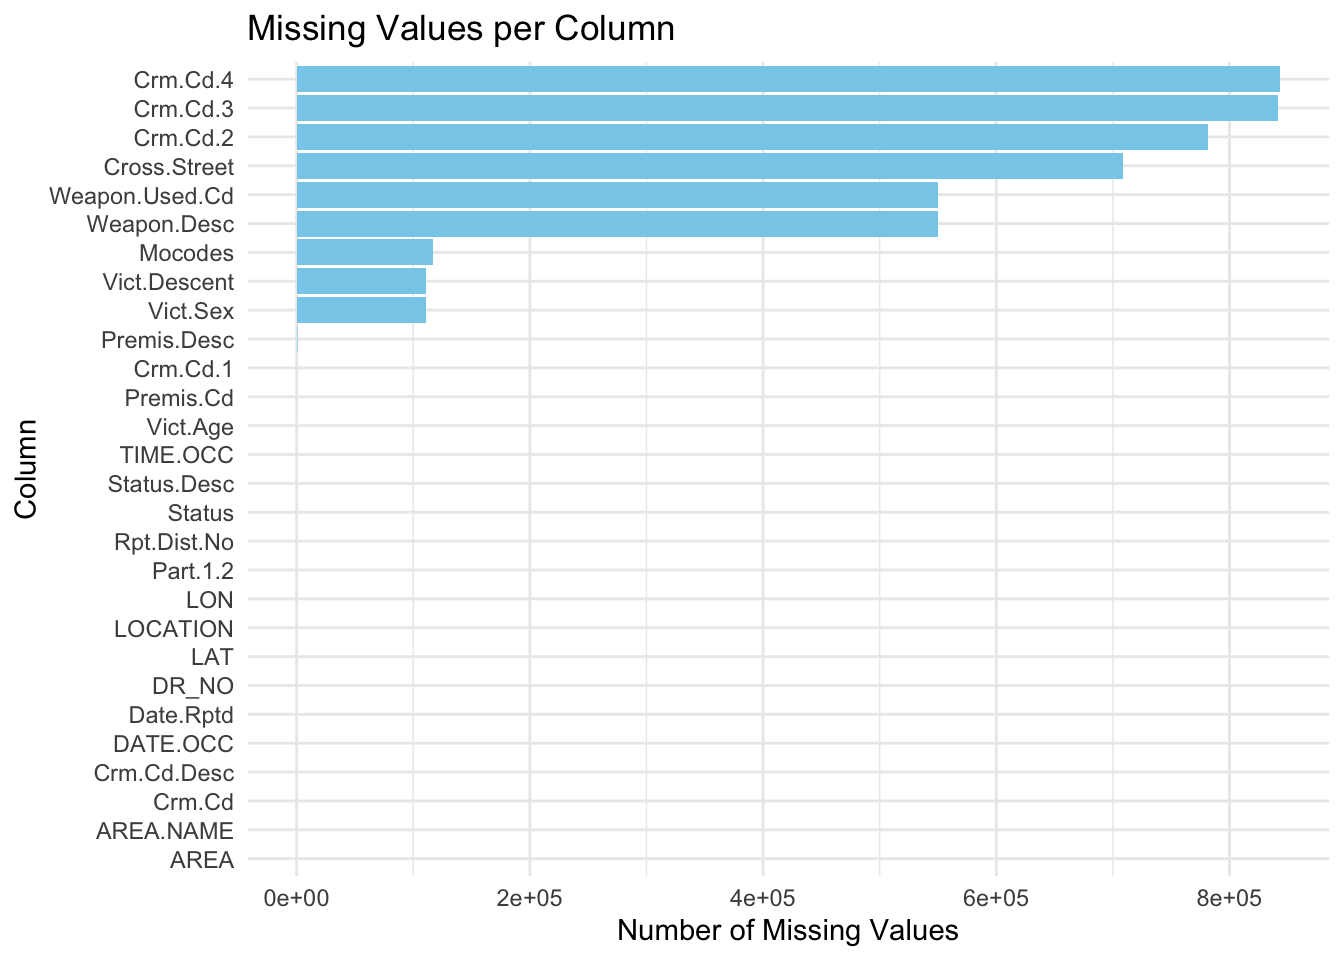
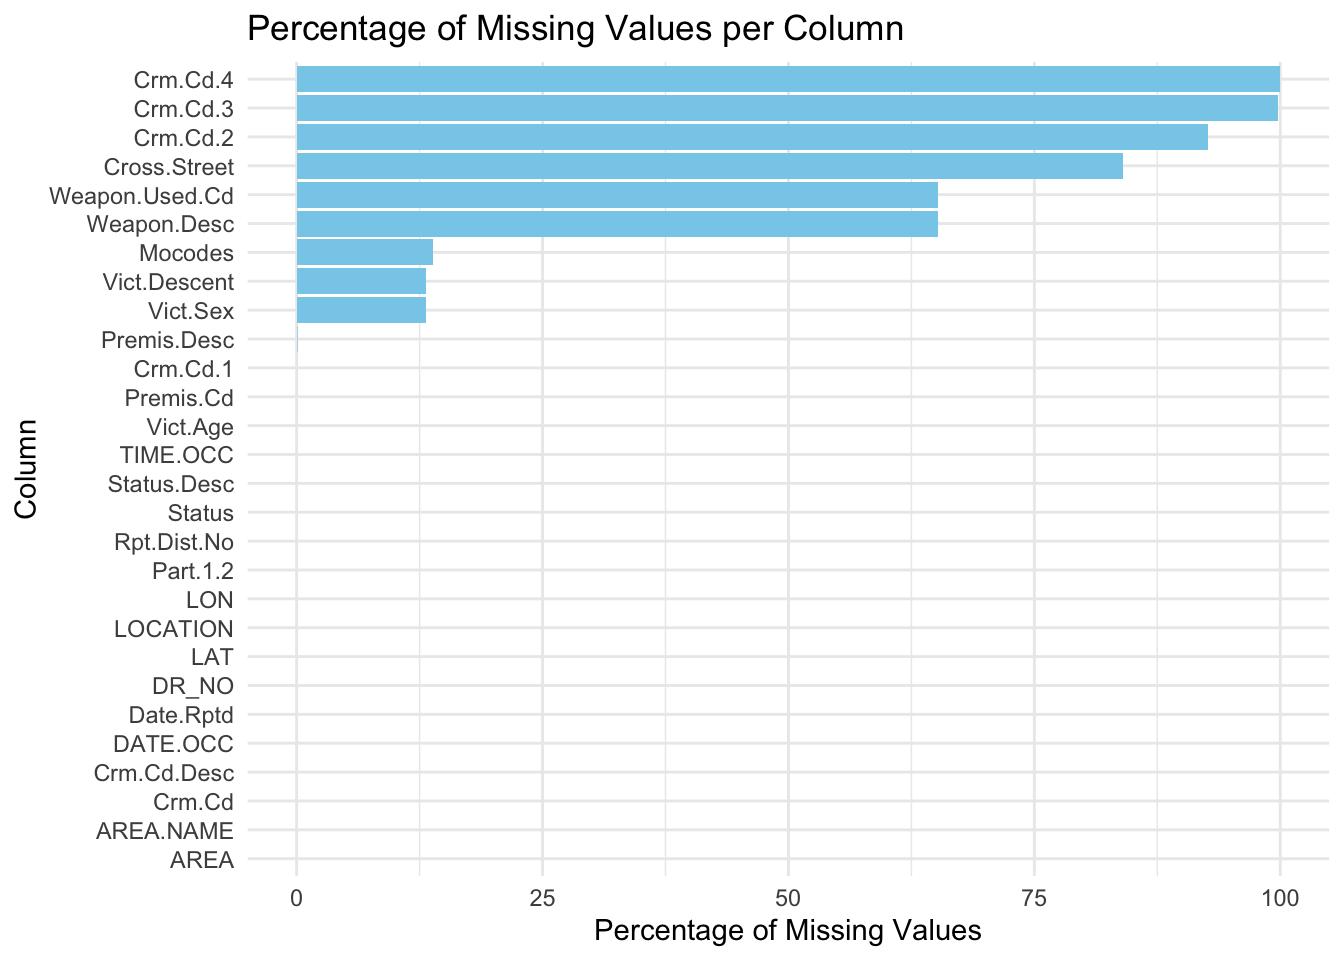
updated html

diff --git a/docs/data.html b/docs/data.html
@@ -239,30 +239,63 @@ pre > code.sourceCode > span > a:first-child::before { text-decoration: underlin
 </div>
 <details>
 <summary>Code</summary>
-<div class="sourceCode cell-code" id="cb4"><pre class="sourceCode r code-with-copy"><code class="sourceCode r"><span id="cb4-1"><a href="#cb4-1" aria-hidden="true" tabindex="-1"></a>df[df<span class="sc">==</span><span class="st">""</span>]<span class="ot">&lt;-</span><span class="cn">NA</span></span>
-<span id="cb4-2"><a href="#cb4-2" aria-hidden="true" tabindex="-1"></a>missing_values <span class="ot">&lt;-</span> <span class="fu">colSums</span>(<span class="fu">is.na</span>(df))</span>
-<span id="cb4-3"><a href="#cb4-3" aria-hidden="true" tabindex="-1"></a></span>
-<span id="cb4-4"><a href="#cb4-4" aria-hidden="true" tabindex="-1"></a><span class="co"># Create a dataframe for ggplot and sort in increasing order</span></span>
-<span id="cb4-5"><a href="#cb4-5" aria-hidden="true" tabindex="-1"></a>missing_df <span class="ot">&lt;-</span> <span class="fu">data.frame</span>(</span>
-<span id="cb4-6"><a href="#cb4-6" aria-hidden="true" tabindex="-1"></a>  <span class="at">column =</span> <span class="fu">names</span>(missing_values),</span>
-<span id="cb4-7"><a href="#cb4-7" aria-hidden="true" tabindex="-1"></a>  <span class="at">count =</span> missing_values</span>
-<span id="cb4-8"><a href="#cb4-8" aria-hidden="true" tabindex="-1"></a>)</span>
-<span id="cb4-9"><a href="#cb4-9" aria-hidden="true" tabindex="-1"></a></span>
-<span id="cb4-10"><a href="#cb4-10" aria-hidden="true" tabindex="-1"></a>missing_df <span class="ot">&lt;-</span> missing_df[<span class="fu">order</span>(missing_df<span class="sc">$</span>count), ]</span>
-<span id="cb4-11"><a href="#cb4-11" aria-hidden="true" tabindex="-1"></a></span>
-<span id="cb4-12"><a href="#cb4-12" aria-hidden="true" tabindex="-1"></a><span class="co"># Create ggplot horizontal bar plot for missing values</span></span>
-<span id="cb4-13"><a href="#cb4-13" aria-hidden="true" tabindex="-1"></a><span class="fu">ggplot</span>(missing_df, <span class="fu">aes</span>(<span class="at">x =</span> <span class="fu">reorder</span>(column, count), <span class="at">y =</span> count)) <span class="sc">+</span></span>
+<div class="sourceCode cell-code" id="cb4"><pre class="sourceCode r code-with-copy"><code class="sourceCode r"><span id="cb4-1"><a href="#cb4-1" aria-hidden="true" tabindex="-1"></a><span class="co">#Adding NA to blank values</span></span>
+<span id="cb4-2"><a href="#cb4-2" aria-hidden="true" tabindex="-1"></a>df[df<span class="sc">==</span><span class="st">""</span>]<span class="ot">&lt;-</span><span class="cn">NA</span></span>
+<span id="cb4-3"><a href="#cb4-3" aria-hidden="true" tabindex="-1"></a>missing_percentage <span class="ot">&lt;-</span> (<span class="fu">colSums</span>(<span class="fu">is.na</span>(df)) <span class="sc">/</span> <span class="fu">nrow</span>(df)) <span class="sc">*</span> <span class="dv">100</span></span>
+<span id="cb4-4"><a href="#cb4-4" aria-hidden="true" tabindex="-1"></a></span>
+<span id="cb4-5"><a href="#cb4-5" aria-hidden="true" tabindex="-1"></a></span>
+<span id="cb4-6"><a href="#cb4-6" aria-hidden="true" tabindex="-1"></a>missing_df <span class="ot">&lt;-</span> <span class="fu">data.frame</span>(</span>
+<span id="cb4-7"><a href="#cb4-7" aria-hidden="true" tabindex="-1"></a>  <span class="at">column =</span> <span class="fu">names</span>(missing_percentage),</span>
+<span id="cb4-8"><a href="#cb4-8" aria-hidden="true" tabindex="-1"></a>  <span class="at">percentage =</span> missing_percentage</span>
+<span id="cb4-9"><a href="#cb4-9" aria-hidden="true" tabindex="-1"></a>)</span>
+<span id="cb4-10"><a href="#cb4-10" aria-hidden="true" tabindex="-1"></a></span>
+<span id="cb4-11"><a href="#cb4-11" aria-hidden="true" tabindex="-1"></a>missing_df <span class="ot">&lt;-</span> missing_df[<span class="fu">order</span>(missing_df<span class="sc">$</span>percentage), ]</span>
+<span id="cb4-12"><a href="#cb4-12" aria-hidden="true" tabindex="-1"></a></span>
+<span id="cb4-13"><a href="#cb4-13" aria-hidden="true" tabindex="-1"></a><span class="fu">ggplot</span>(missing_df, <span class="fu">aes</span>(<span class="at">x =</span> <span class="fu">reorder</span>(column, percentage), <span class="at">y =</span> percentage)) <span class="sc">+</span></span>
 <span id="cb4-14"><a href="#cb4-14" aria-hidden="true" tabindex="-1"></a>  <span class="fu">geom_bar</span>(<span class="at">stat =</span> <span class="st">"identity"</span>, <span class="at">fill =</span> <span class="st">"skyblue"</span>) <span class="sc">+</span></span>
 <span id="cb4-15"><a href="#cb4-15" aria-hidden="true" tabindex="-1"></a>  <span class="fu">labs</span>(</span>
-<span id="cb4-16"><a href="#cb4-16" aria-hidden="true" tabindex="-1"></a>    <span class="at">title =</span> <span class="st">"Missing Values per Column"</span>,</span>
+<span id="cb4-16"><a href="#cb4-16" aria-hidden="true" tabindex="-1"></a>    <span class="at">title =</span> <span class="st">"Percentage of Missing Values per Column"</span>,</span>
 <span id="cb4-17"><a href="#cb4-17" aria-hidden="true" tabindex="-1"></a>    <span class="at">x =</span> <span class="st">"Column"</span>,</span>
-<span id="cb4-18"><a href="#cb4-18" aria-hidden="true" tabindex="-1"></a>    <span class="at">y =</span> <span class="st">"Number of Missing Values"</span></span>
+<span id="cb4-18"><a href="#cb4-18" aria-hidden="true" tabindex="-1"></a>    <span class="at">y =</span> <span class="st">"Percentage of Missing Values"</span></span>
 <span id="cb4-19"><a href="#cb4-19" aria-hidden="true" tabindex="-1"></a>  ) <span class="sc">+</span></span>
 <span id="cb4-20"><a href="#cb4-20" aria-hidden="true" tabindex="-1"></a>  <span class="fu">theme_minimal</span>() <span class="sc">+</span></span>
 <span id="cb4-21"><a href="#cb4-21" aria-hidden="true" tabindex="-1"></a>  <span class="fu">coord_flip</span>()</span></code><button title="Copy to Clipboard" class="code-copy-button"><i class="bi"></i></button></pre></div>
 </details>
 <div class="cell-output-display">
 <p><img src="data_files/figure-html/unnamed-chunk-2-1.png" class="img-fluid" width="672"></p>
+</div>
+</div>
+<div class="cell">
+<details>
+<summary>Code</summary>
+<div class="sourceCode cell-code" id="cb5"><pre class="sourceCode r code-with-copy"><code class="sourceCode r"><span id="cb5-1"><a href="#cb5-1" aria-hidden="true" tabindex="-1"></a>subset_size <span class="ot">&lt;-</span> <span class="dv">50</span></span>
+<span id="cb5-2"><a href="#cb5-2" aria-hidden="true" tabindex="-1"></a><span class="co"># Identify rows with missing values in specific columns</span></span>
+<span id="cb5-3"><a href="#cb5-3" aria-hidden="true" tabindex="-1"></a>rows_with_missing <span class="ot">&lt;-</span> <span class="fu">which</span>(<span class="fu">apply</span>(df, <span class="dv">1</span>, <span class="cf">function</span>(x) <span class="fu">any</span>(<span class="fu">is.na</span>(x))))</span>
+<span id="cb5-4"><a href="#cb5-4" aria-hidden="true" tabindex="-1"></a></span>
+<span id="cb5-5"><a href="#cb5-5" aria-hidden="true" tabindex="-1"></a><span class="co"># Identify columns with missing values in the selected rows</span></span>
+<span id="cb5-6"><a href="#cb5-6" aria-hidden="true" tabindex="-1"></a>columns_with_missing <span class="ot">&lt;-</span> <span class="fu">names</span>(<span class="fu">which</span>(<span class="fu">colSums</span>(<span class="fu">is.na</span>(df[rows_with_missing, ])) <span class="sc">&gt;</span> <span class="dv">50</span> <span class="sc">&amp;</span> <span class="fu">colSums</span>(<span class="fu">is.na</span>(df[rows_with_missing, ])) <span class="sc">&lt;</span> <span class="dv">700000</span>))</span>
+<span id="cb5-7"><a href="#cb5-7" aria-hidden="true" tabindex="-1"></a></span>
+<span id="cb5-8"><a href="#cb5-8" aria-hidden="true" tabindex="-1"></a><span class="co"># Randomly subset rows with missing values in specific columns</span></span>
+<span id="cb5-9"><a href="#cb5-9" aria-hidden="true" tabindex="-1"></a>random_subset <span class="ot">&lt;-</span> df[<span class="fu">sample</span>(rows_with_missing, subset_size), columns_with_missing, drop <span class="ot">=</span> <span class="cn">FALSE</span>]</span></code><button title="Copy to Clipboard" class="code-copy-button"><i class="bi"></i></button></pre></div>
+</details>
+</div>
+<div class="cell">
+<details>
+<summary>Code</summary>
+<div class="sourceCode cell-code" id="cb6"><pre class="sourceCode r code-with-copy"><code class="sourceCode r"><span id="cb6-1"><a href="#cb6-1" aria-hidden="true" tabindex="-1"></a>tidydf <span class="ot">&lt;-</span> random_subset <span class="sc">%&gt;%</span> </span>
+<span id="cb6-2"><a href="#cb6-2" aria-hidden="true" tabindex="-1"></a>    <span class="fu">rownames_to_column</span>(<span class="st">"id"</span>) <span class="sc">%&gt;%</span> </span>
+<span id="cb6-3"><a href="#cb6-3" aria-hidden="true" tabindex="-1"></a>    <span class="fu">gather</span>(key, value, <span class="sc">-</span>id) <span class="sc">%&gt;%</span> </span>
+<span id="cb6-4"><a href="#cb6-4" aria-hidden="true" tabindex="-1"></a>    <span class="fu">mutate</span>(<span class="at">missing =</span> <span class="fu">ifelse</span>(<span class="fu">is.na</span>(value), <span class="st">"yes"</span>, <span class="st">"no"</span>))</span>
+<span id="cb6-5"><a href="#cb6-5" aria-hidden="true" tabindex="-1"></a></span>
+<span id="cb6-6"><a href="#cb6-6" aria-hidden="true" tabindex="-1"></a><span class="fu">ggplot</span>(tidydf, <span class="fu">aes</span>(<span class="at">x =</span> key, <span class="at">y =</span> <span class="fu">fct_rev</span>(id), <span class="at">fill =</span> missing)) <span class="sc">+</span></span>
+<span id="cb6-7"><a href="#cb6-7" aria-hidden="true" tabindex="-1"></a>  <span class="fu">geom_tile</span>(<span class="at">color =</span> <span class="st">"white"</span>) <span class="sc">+</span> </span>
+<span id="cb6-8"><a href="#cb6-8" aria-hidden="true" tabindex="-1"></a>  <span class="fu">ggtitle</span>(<span class="st">"Missing Values of a Random Subset"</span>) <span class="sc">+</span></span>
+<span id="cb6-9"><a href="#cb6-9" aria-hidden="true" tabindex="-1"></a>  <span class="fu">ylab</span>(<span class="st">'Crime ID'</span>) <span class="sc">+</span> </span>
+<span id="cb6-10"><a href="#cb6-10" aria-hidden="true" tabindex="-1"></a>  <span class="fu">scale_fill_viridis_d</span>() <span class="sc">+</span></span>
+<span id="cb6-11"><a href="#cb6-11" aria-hidden="true" tabindex="-1"></a>  <span class="fu">theme_bw</span>()</span></code><button title="Copy to Clipboard" class="code-copy-button"><i class="bi"></i></button></pre></div>
+</details>
+<div class="cell-output-display">
+<p><img src="data_files/figure-html/unnamed-chunk-4-1.png" class="img-fluid" width="672"></p>
 </div>
 </div>
 

diff --git a/docs/index.html b/docs/index.html
@@ -8,7 +8,7 @@
 
 <meta name="author" content="Aneri Modi (abm2211)">
 <meta name="author" content="Zainab Shakruwala (zs2641)">
-<meta name="dcterms.date" content="2023-11-28">
+<meta name="dcterms.date" content="2023-11-30">
 
 <title>Crime in LA</title>
 <style>
@@ -170,7 +170,7 @@ ul.task-list li input[type="checkbox"] {
     <div>
     <div class="quarto-title-meta-heading">Published</div>
     <div class="quarto-title-meta-contents">
-      <p class="date">November 28, 2023</p>
+      <p class="date">November 30, 2023</p>
     </div>
   </div>
   
